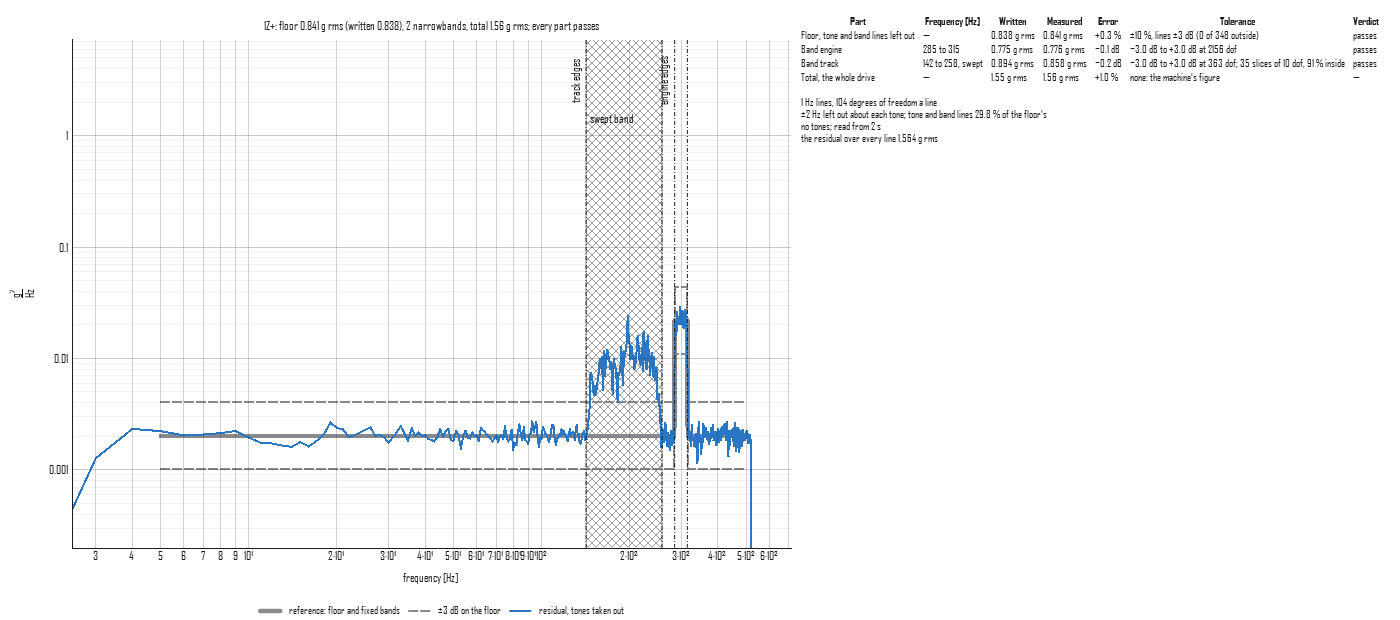
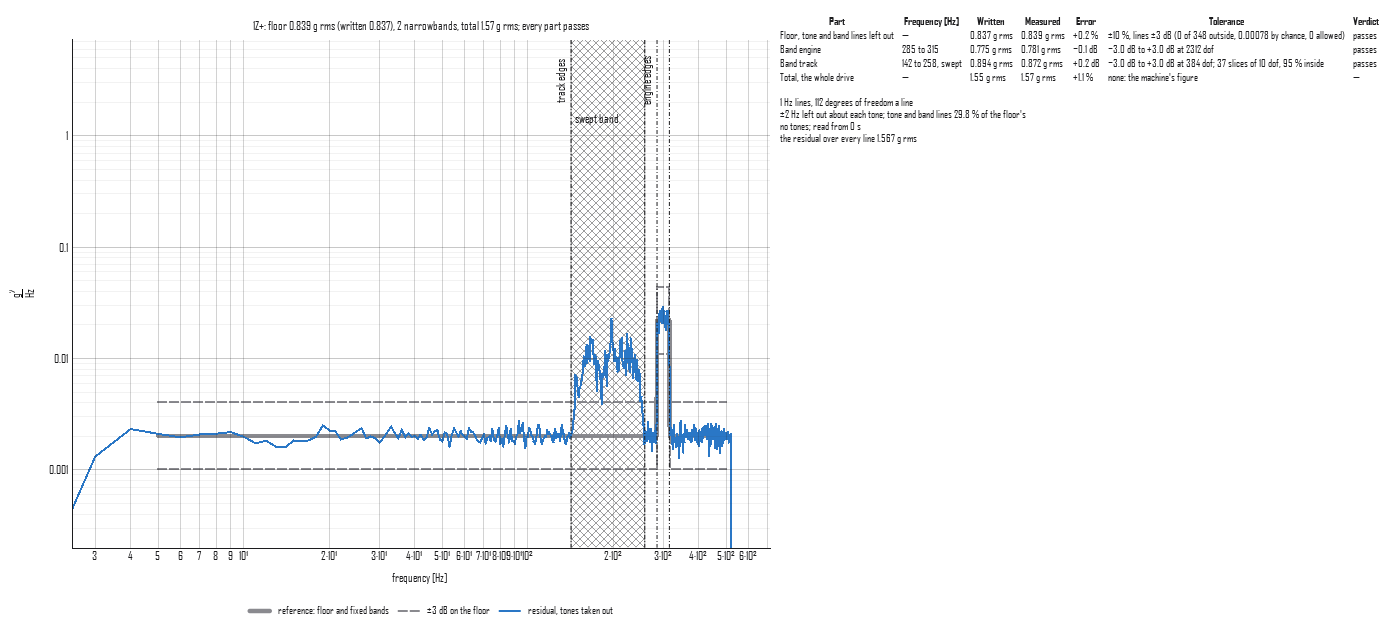
Guide: the floor held to chance, lines a tone held, the onset found; figures redrawn

diff --git a/tools/make_concept_figures.py b/tools/make_concept_figures.py
@@ -1547,11 +1547,19 @@ def mixed_mode():
     spec = MixedSpecification(floor, [Tone(f, a * g) for f, a in tones],
                               seconds=60.0)
     history = record(x)
-    plot_mixed_mode(history, spec, unit_system=us, show=False,
+    # the tones run from the record's first sample
+    plot_mixed_mode(history, spec, onset=0.0, unit_system=us, show=False,
                     size=(1400, 620), path=str(OUT / 'mixed-mode-sheet.png'))
-    reading = judge_mixed(history, spec)
+    reading = judge_mixed(history, spec, onset=0.0)
     print(f'mixed: residual every line {reading.floor.residual / g:.3f} '
           f'grms, tones {reading.tones_measured / g:.3f} g rms, '
+          f'tones read {[round(t.measured / g, 3) for t in reading.tones]}, '
+          f'floor {reading.floor.measured / g:.3f} against '
+          f'{reading.floor.reference / g:.3f}, left out '
+          f'{100 * reading.floor.left_out:.1f} %, outside '
+          f'{reading.floor.outside} of {reading.floor.judged} '
+          f'({reading.floor.expected:.2g} by chance, {reading.floor.allowed} '
+          f'allowed), total {reading.total.measured / g:.3f}; '
           f'{reading.describe("g", 1 / g)}')
 
     # random on random: a fixed band and a swept one over the floor

diff --git a/docs/guide/mixed-mode.md b/docs/guide/mixed-mode.md
@@ -49,9 +49,8 @@ spec.reference_rms()                          # floor, tones, bands, total
 The tone table is entered as `Tone` rows. A fixed tone is a row with a
 frequency and an amplitude; a swept tone adds `sweep_to`, a `rate` and
 a `mode` (`LINEAR` in Hz/s, `LOG` in octaves a minute). A fixed tone
-used to be written by hand as a sweep across a ten-thousandth of a
-hertz; a row says what it is, and is written into the sine
-specification as the dwell a controller's file holds (`SineTone.dwell`).
+is written into the sine specification as the dwell a controller's
+file holds (`SineTone.dwell`).
 `spec.tone_table()` reads any sine specification back as rows, fixed
 where every segment holds one frequency.
 
@@ -93,21 +92,36 @@ opens in an older version as the plain random specification. Given to
 `judge_mixed(history, spec)` reads one channel of a record against it,
 part by part:
 
-1. Each tone is read through a tracking band locked to its frequency
-   (0.5 Hz wide by default), the way a controller reads it
+1. Where the tones begin in the record is found by matched filter, as
+   the extraction finds it, unless `onset` is given. Each tone is read
+   through a tracking band locked to its frequency (0.5 Hz wide by
+   default), the way a controller reads it
    ([How a tracking filter reads a sweep](sine-tracking.md)). The band
    settles in about one over its width, so nothing before that is read;
    the tone's level is the median of the readings after it, compared
    with the table at plus or minus 10 percent, an example of what test
-   documents ask for.
+   documents ask for. A small tone near the floor scatters through its
+   band from reading to reading, and the median reads its level through
+   that scatter.
 2. What each band passed is taken out of the record. What is left, the
    residual, is the floor and the narrowbands.
 3. The floor is judged on the residual's averaged spectrum with the
-   lines within the left-out width of every tone, and every
-   narrowband's lines, left out: its rms against the reference's over
-   the same lines (plus or minus 10 percent) and each line against the
-   reference (plus or minus 3 dB). A swept tone's left-out lines are
-   every line it passes, since each held it for part of the run.
+   lines that held a tone, and every narrowband's lines, left out. A
+   line held a tone when the tone spent a tenth of its run or more
+   within the left-out width of it: every line beside a fixed tone, and
+   few or none of the lines a long sweep passes, since it is near each
+   only briefly and what the band took with it is a small share of that
+   line's power. The floor is judged as a comparison is
+   (`compliance.judge`): its rms against the reference's over the same
+   lines (plus or minus 10 percent), and its lines against the
+   reference moved 3 dB either way. An averaged line scatters, so a
+   correctly controlled floor has a few lines outside 3 dB on a short
+   record: on a 10 s record read from 2 s, about 28 degrees of freedom
+   a line, 1.4 percent of lines, five of 384. The lines fail only when
+   more are outside than chance would put there one time in a thousand;
+   the sheet gives the count beside the number chance expects and the
+   number allowed. A floor with no line left to judge is not judged, and
+   the reading says so.
 4. Each narrowband is judged at the degrees of freedom of a narrow
    band. A fixed band's level is the mean of its lines, worth the
    per-line degrees of freedom times its lines over the window's noise
@@ -124,20 +138,21 @@ part by part:
 ```python
 from visualdynamics.core.mixed_mode import judge_mixed
 
-reading = judge_mixed(history, spec)
+reading = judge_mixed(history, spec, onset=0.0)  # tones from the start
 reading.floor.residual / g        # 1.003, the residual over every line
 reading.tones_measured / g        # 2.477, the tracked tones' rms
 reading.total.measured / g        # 2.671, the whole drive
 print(reading.describe('g', 1 / g))
 
-visualdynamics.plot.plot_mixed_mode(history, spec, path='sheet.png')
+visualdynamics.plot.plot_mixed_mode(history, spec, onset=0.0,
+                                    path='sheet.png')
 ```
 
 The figures are for one minute of the composite above, the guide
 composite of [Reading a tone off an ASD](tone-readout.md). The tracked
 tones read 0.122, 1.945, 2.496 and 1.498 g peak, 2.477 g rms together
 against 2.479 written; the residual 1.003 grms over every line, and
-0.987 against 0.987 written with the tone lines left out (2.8 percent
+0.986 against 0.986 written with the tone lines left out (2.8 percent
 of the floor's lines); and the whole drive 2.671. Every value is
 stored in SI, as every record is; `describe` and the plot take the display unit.
 
@@ -151,17 +166,17 @@ its written and measured figure, its tolerance and its verdict in
 words, and the settings that decide what the numbers mean under them.
 
 ![Sine on random: the residual and the record over the floor, the lines
-left out hatched, and the sheet: 0.987 grms for the floor, 2.48 g rms
+left out hatched, and the sheet: 0.986 grms for the floor, 2.48 g rms
 for the tones, 2.67 for the total](images/mixed-mode-sheet.png)
 
 ![Random on random: a band plus or minus 5 percent about 300 Hz and a
 16 Hz band sweeping 150 to 250 Hz, each judged at its own degrees of
 freedom](images/mixed-mode-bands.png)
 
-In the second figure the swept band is read in 35 slices of about 10
-degrees of freedom each, where a floor line has 104; one slice's
+In the second figure the swept band is read in 37 slices of about 10
+degrees of freedom each, where a floor line has 112; one slice's
 scatter alone is wider than 3 dB either way, and the band's level
-pooled over the slices reads 0.2 dB under its written level. Its edges
+pooled over the slices reads 0.2 dB over its written level. Its edges
 are drawn dash-dotted and its travel cross-hatched, so the plot shows
 where the band went as well as how strong it was. The figures are made
 by `tools/make_concept_figures.py`.
@@ -190,7 +205,14 @@ left-out lines hatched. The narrowbands are the floor's own
   a fixture resonance at a tone, is not judged against the floor's
   tolerance at all. The sheet gives the width and the share of the
   floor's lines it took, and says so in a note when more than half the
-  floor was left out, as a long sweep does.
+  floor was left out.
+- A steady tone has nothing in time for the matched filter to lock onto
+  but where it starts, so with no `onset` given it is placed somewhere
+  it plays, never before it, and the floor is read from there. Give
+  `onset` when the tones' start is known.
+- A record of another quantity than the floor or the tones (velocity
+  against an acceleration floor) is refused, by the rule every
+  comparison uses.
 - A tone at the floor's edge has no floor under it on one side. The
   reading says so in a note.
 - A swept band moving faster than a frame fine enough to resolve it
